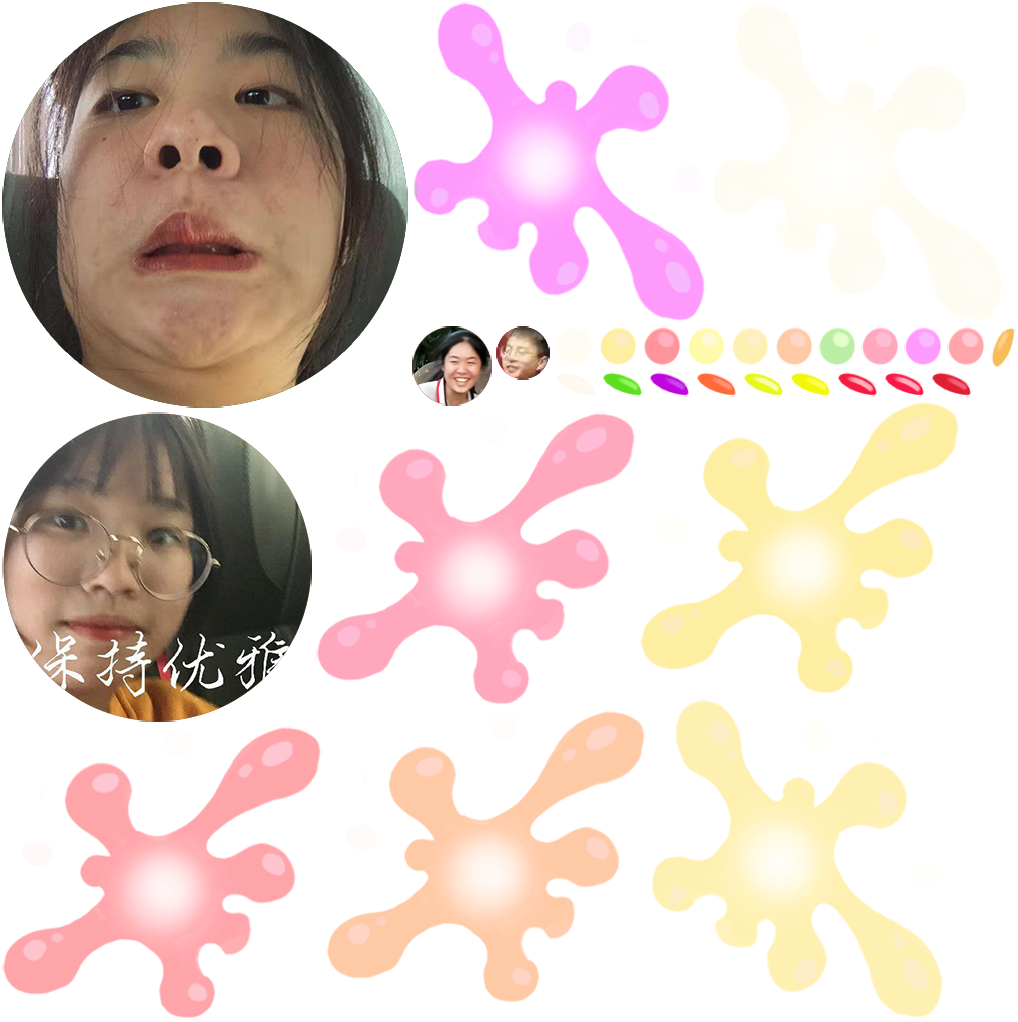
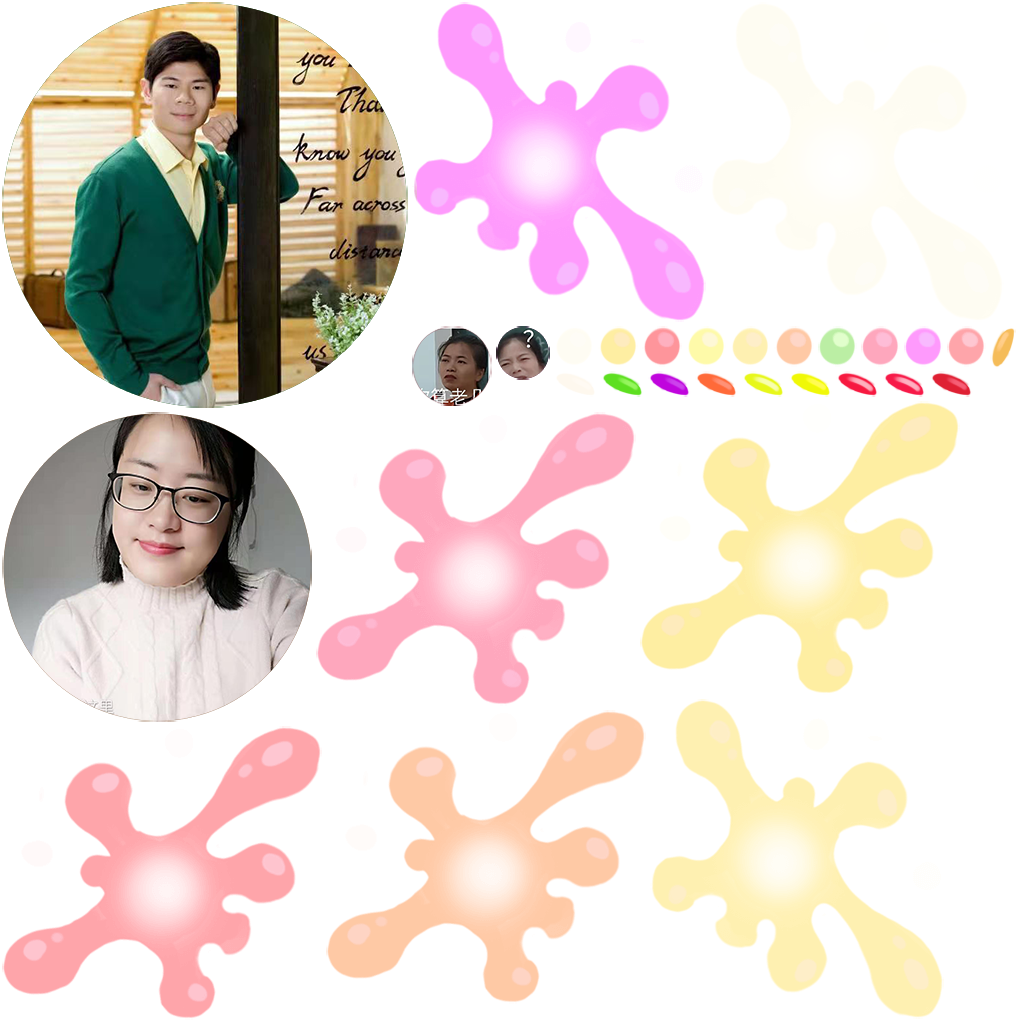
nitial commit

Changed region(s): [[0.0, 0.0, 0.4263, 0.728], [0.3959, 0.3033, 0.5481, 0.3943]]

diff --git a/index.html b/index.html
@@ -4,7 +4,7 @@
 <head>
     <meta charset="utf-8">
 
-    <title>合成福娃行动</title>
+    <title>合成曹养元</title>
 
     <!--http://www.html5rocks.com/en/mobile/mobifying/-->
     <meta name="viewport" content="width=device-width,user-scalable=no,initial-scale=1, minimum-scale=1,maximum-scale=1" />
@@ -109,7 +109,7 @@
             //        console.log("window.navigator.language",window.navigator.language);
 
             if (window.navigator.language == "zh-CN" || window.navigator.language == "zh-cn") {
-                document.title = "合成福娃行动";
+                document.title = "合成曹养元";
             } 
 
 
